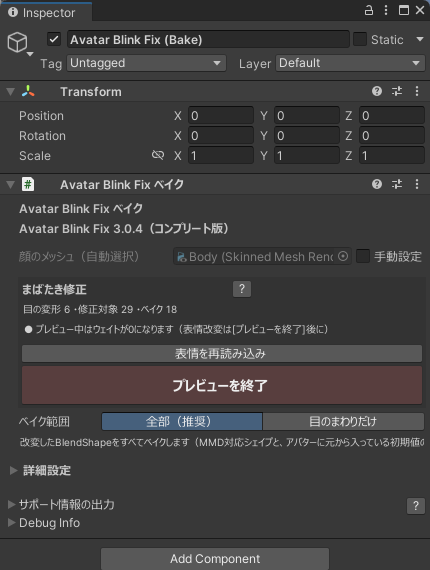
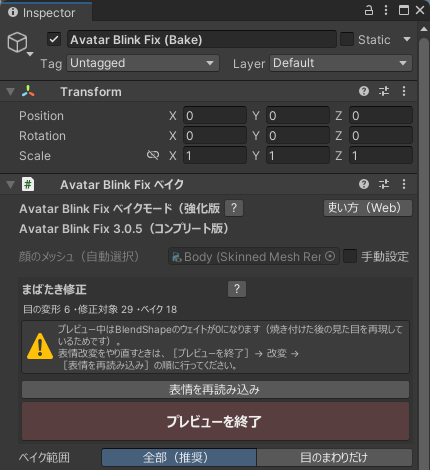
スクリーンショットを 3.0.5 の実物へ差し替え、ベイク色分けの画像を追加
- context-menu.png: 右クリックメニューを「自動修正（ベイクモード・強化版）」入りに
- easy-bake.png: 見出し「ベイクモード（強化版）」・［使い方（Web）］・
  ウェイト0の黄色い警告ブロックが写る状態へ
- easy-normal.png: 3.0.5・［使い方（Web）］入りへ
- meshswap-window.png: 3.0.5 へ
- bake-legend.png（新規）: ベイク対象一覧の色分け（シアン＝目のまわり／オレンジ＝目以外）
  を bake.md「名前の色で、外していいものが分かります」に掲載
- meshswap.md の「ベイク修正（強化版）」を「ベイク修正」へ戻す
  （撮影で判明: 強化版が付くのは非破壊モード側のトグル mode_toggle_bake で、
   メッシュ入れ替え式の中の meshswap_submode_bake は「ベイク修正」のまま）

diff --git a/docs/guide/meshswap.md b/docs/guide/meshswap.md
@@ -34,9 +34,9 @@
 - 表情改変をやり直したいときは、いったん戻す → 改変する → もう一度修正、の順で
 - 修正の記録はアバター名ごとに保存されています。アバターを複製したり名前を変えたりすると記録と合わなくなり、二重修正防止の案内が出ることがあります（→ [FAQ](/faq#copied-avatar)）
 
-## ベイク修正（強化版）
+## ベイク修正
 
-メッシュ入れ替え式にも「**ベイク修正（強化版）**」があります。通常修正の強化版で、改変した表情をメッシュに焼き込んでから修正するため、表情アニメーションを使っていても崩れにくくなります。
+メッシュ入れ替え式にも「**ベイク修正**」があります。通常修正の強化版で、改変した表情をメッシュに焼き込んでから修正するため、表情アニメーションを使っていても崩れにくくなります。
 
 ※ Avatar Mouth Fix と併用するときは、ベイク修正ではなく通常修正を使ってください。
 

diff --git a/docs/guide/bake.md b/docs/guide/bake.md
@@ -45,8 +45,12 @@
 - <span style="color:#22d3ee">■</span> **シアン＝目のまわり** … 修正に必要なので、**そのままにしてください**
 - <span style="color:#f59e0b">■</span> **オレンジ＝目以外**（口まわりなど） … **外しても修正には影響しません**
 
+![ベイク対象BlendShapeの一覧。シアンの目まわりとオレンジの口・眉が混在している](/images/bake-legend.png)
+
 はじめは改変ぶんをぜんぶ入れているので、**オレンジが多めに付くのがふつうです**。
 そのままでも大きな問題は起きませんが、必要なものだけにしたいときはオレンジを外してください。
+
+一覧は「**詳細設定**」→「**ベイク対象BlendShape**」から開けます。
 
 ## プレビューの注意
 
